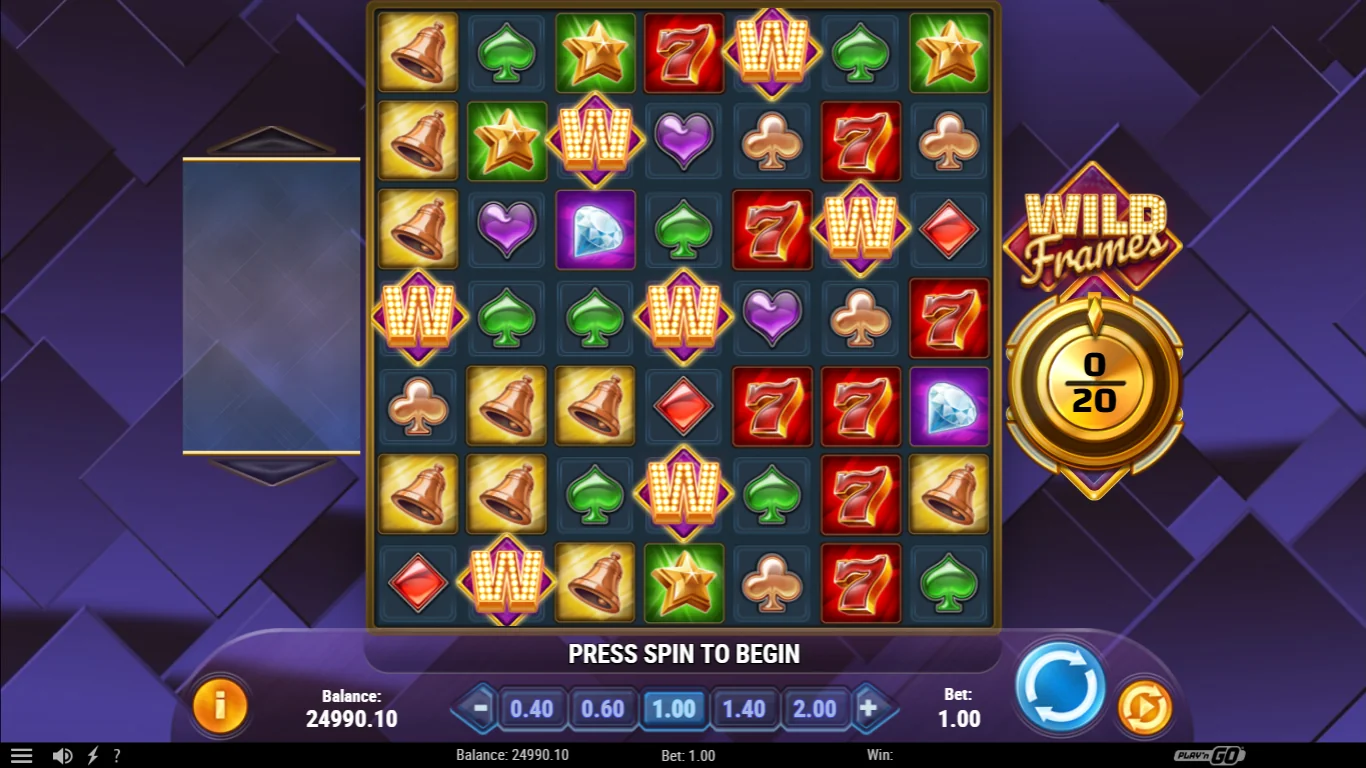
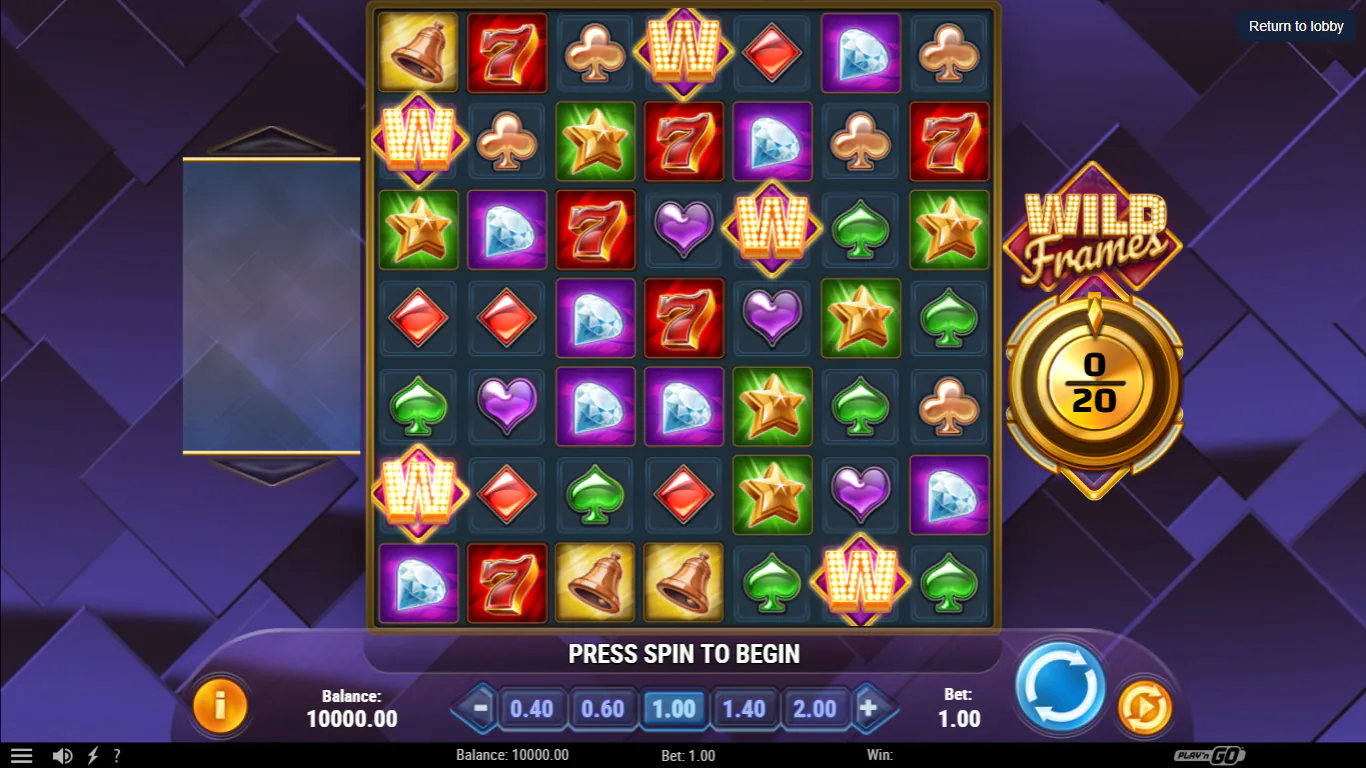
fix: on-brand link previews per language and a fresh Wild Frames capture
- Link previews use new per-language images (public/og/aurevia-gaming-
  {en,es,pt}.jpg, about 90 KB each) with the gold monogram, the homepage
  hero copy and the Wild Frames capture. The old orange "A" image with a
  retired tagline is removed. New URLs make chat apps fetch the new
  design instead of their cached preview. The image description is
  translated.
- The Wild Frames hero capture now shows a fresh 10000.00 balance, matching
  the 10,000-credit copy beside it; it showed 24990.10.
- scripts/capture-page.mjs captures a page at an exact viewport with local
  Chrome or Edge. assets/README.md records how both images are made, and
  that a demo capture can hold one of the two public demo seats for up to
  30 minutes.
- Release verification checks the HSTS and page cache headers and the new
  preview images.

diff --git a/assets/source/opengraph-image.html b/assets/source/opengraph-image.html
@@ -1,0 +1,64 @@
+<!doctype html>
+<html lang="en">
+<head>
+  <meta charset="utf-8">
+  <title>Aurevia Gaming link preview</title>
+  <!-- Source for public/og/aurevia-gaming-{en,es,pt}.jpg. ?lang=es|pt selects the copy,
+       which matches the homepage hero in src/content/site-content.ts and translations.ts. -->
+  <link rel="preconnect" href="https://fonts.googleapis.com">
+  <link rel="preconnect" href="https://fonts.gstatic.com" crossorigin>
+  <link href="https://fonts.googleapis.com/css2?family=Manrope:wght@600;800&family=Sora:wght@700&display=block" rel="stylesheet">
+  <style>
+    * { box-sizing: border-box; margin: 0; }
+    html, body { width: 1200px; height: 630px; overflow: hidden; }
+    body {
+      display: grid; grid-template-columns: minmax(0, 1fr) 500px; gap: 52px; align-items: center;
+      padding: 60px 64px 60px 72px; color: #f7f7f4; font-family: Manrope, sans-serif;
+      background:
+        radial-gradient(circle at 90% -10%, rgb(212 175 55 / .2), transparent 520px),
+        radial-gradient(circle at -5% 105%, rgb(212 175 55 / .1), transparent 420px),
+        #07090c;
+      -webkit-font-smoothing: antialiased;
+    }
+    .brand { display: flex; align-items: center; gap: 14px; color: #d4af37; font: 700 21px/1 Sora, sans-serif; letter-spacing: .02em; text-transform: uppercase; }
+    .brand svg { width: 50px; height: 47px; flex: none; }
+    .eyebrow { display: inline-flex; margin-top: 40px; padding: 10px 20px; border: 1px solid rgb(212 175 55 / .4); border-radius: 999px; background: rgb(255 255 255 / .04); color: #d4af37; font: 800 15px/1 Manrope, sans-serif; letter-spacing: .06em; text-transform: uppercase; }
+    h1 { margin-top: 24px; font: 700 64px/1.04 Sora, sans-serif; letter-spacing: -.035em; }
+    h1 span { display: block; color: #d4af37; }
+    ul { display: flex; flex-wrap: wrap; gap: 10px 26px; margin-top: 36px; padding: 0; list-style: none; color: #d4af37; font: 800 14px/1.2 Manrope, sans-serif; letter-spacing: .05em; text-transform: uppercase; }
+    figure { overflow: hidden; border: 1px solid rgb(212 175 55 / .45); border-radius: 22px; background: #11161f; box-shadow: 0 30px 80px rgb(0 0 0 / .55); }
+    figure img { display: block; width: 100%; height: auto; }
+    figcaption { padding: 14px 18px; color: #a6abb6; font: 600 14px/1.3 Manrope, sans-serif; }
+  </style>
+</head>
+<body>
+  <main>
+    <p class="brand">
+      <svg viewBox="50 8 330 308" aria-hidden="true"><path fill="currentColor" d="M223 20 108 261c-10 18-26 33-45 39 19 6 39 4 58-2 21-7 43-22 66-42 15 25 38 44 65 47 26 2 72 1 114 1l-37-74h-65l13 24h29l12 25h-58c-19 0-36-15-46-36 31-22 65-38 97-41 15-1 29 0 40 2-19-11-38-19-52-21-23-4-43 1-69 9-33 11-65 36-85 56-8 7-16 12-24 13 16-10 30-26 41-45 14-25 40-77 61-122l37 73 37 2-9-18L223 20Z"/></svg>
+      Aurevia Gaming
+    </p>
+    <p class="eyebrow" data-copy="eyebrow">Casino-tech studio</p>
+    <h1><span data-copy="title" style="color:inherit">Casino games</span><span data-copy="highlight">connected.</span></h1>
+    <ul data-copy="details"></ul>
+  </main>
+  <figure>
+    <img src="../../public/media/games/wildframes-gameplay.webp" alt="">
+    <figcaption data-copy="caption">Play’n GO · Wild Frames sandbox capture</figcaption>
+  </figure>
+  <script>
+    const copy = {
+      en: { eyebrow: "Casino-tech studio", title: "Casino games", highlight: "connected.", details: ["9 prepared games", "Wallet API", "Admin analytics"], caption: "Play’n GO · Wild Frames sandbox capture" },
+      es: { eyebrow: "Estudio de tecnología para casinos", title: "Juegos de casino", highlight: "conectados.", details: ["9 juegos disponibles", "API de monedero", "Análisis administrativo"], caption: "Play’n GO · Captura de Wild Frames en sandbox" },
+      pt: { eyebrow: "Estúdio de tecnologia para cassinos", title: "Jogos de cassino", highlight: "conectados.", details: ["9 jogos disponíveis", "API de carteira", "Análise administrativa"], caption: "Play’n GO · Captura do Wild Frames em sandbox" },
+    };
+    const lang = new URLSearchParams(location.search).get("lang");
+    const text = copy[lang] ?? copy.en;
+    document.documentElement.lang = copy[lang] ? lang : "en";
+    for (const element of document.querySelectorAll("[data-copy]")) {
+      const value = text[element.dataset.copy];
+      if (Array.isArray(value)) element.replaceChildren(...value.map((item) => Object.assign(document.createElement("li"), { textContent: item })));
+      else element.textContent = value;
+    }
+  </script>
+</body>
+</html>

diff --git a/src/content/translations.ts b/src/content/translations.ts
@@ -368,6 +368,7 @@ export const translations: Record<string, readonly [string, string]> = {
   "Open the full-size admin analytics design preview (sample data, new tab)": ["Abrir vista previa del panel a tamaño completo (datos de ejemplo, nueva pestaña)", "Abrir prévia do painel em tamanho completo (dados ilustrativos, nova aba)"],
   "Sending…": ["Enviando…", "Enviando…"],
   "Human verification is temporarily unavailable.": ["La verificación humana no está disponible temporalmente.", "A verificação humana está temporariamente indisponível."],
+  "Aurevia Gaming casino game and platform development": ["Desarrollo de juegos y plataformas de casino de Aurevia Gaming", "Desenvolvimento de jogos e plataformas de cassino da Aurevia Gaming"],
   "Protected by Cloudflare Turnstile.": ["Protegido por Cloudflare Turnstile.", "Protegido pelo Cloudflare Turnstile."],
   "Preview client access, game activity and service health in both themes. The authenticated workspace adds settled reports, transaction history and audited management controls. This preview uses illustrative data.": ["Consulta el acceso de clientes, la actividad de juegos y el estado del servicio en ambos temas. El área autenticada añade informes liquidados, historial de transacciones y controles de gestión auditados. Esta vista previa usa datos ilustrativos.", "Veja o acesso de clientes, a atividade dos jogos e o estado do serviço nos dois temas. A área autenticada oferece relatórios liquidados, histórico de transações e controles de gestão auditados. Esta prévia usa dados ilustrativos."],
 };

diff --git a/src/lib/metadata.ts b/src/lib/metadata.ts
@@ -1,5 +1,6 @@
 import type { Metadata, Viewport } from "next";
 
+import { translate } from "@/content/localized-content";
 import { siteContent } from "@/content/site-content";
 import { locales, localizedPath, type Locale } from "@/lib/i18n";
 import type { SeoEntry } from "@/types/content";
@@ -24,12 +25,14 @@ export const siteViewport: Viewport = {
   themeColor: [{ media: "(prefers-color-scheme: light)", color: "#faf9f6" }, { media: "(prefers-color-scheme: dark)", color: "#07090c" }],
 };
 
-const openGraphImage = {
-  url: "/opengraph-image.png",
+// Rendered from assets/source/opengraph-image.html (assets/README.md). Use a new
+// file name when the design changes: chat apps cache previews by image URL.
+const openGraphImage = (locale: Locale) => ({
+  url: `/og/aurevia-gaming-${locale}.jpg`,
   width: 1200,
   height: 630,
-  alt: "Aurevia Gaming casino game and platform development"
-};
+  alt: translate("Aurevia Gaming casino game and platform development", locale)
+});
 
 export function createPageMetadata(entry: SeoEntry, locale: Locale = "en"): Metadata {
   return {
@@ -50,13 +53,13 @@ export function createPageMetadata(entry: SeoEntry, locale: Locale = "en"): Meta
       siteName: siteContent.brand.name,
       title: entry.title,
       description: entry.description,
-      images: [openGraphImage]
+      images: [openGraphImage(locale)]
     },
     twitter: {
       card: "summary_large_image",
       title: entry.title,
       description: entry.description,
-      images: [openGraphImage.url]
+      images: [openGraphImage(locale).url]
     }
   };
 }

diff --git a/assets/README.md b/assets/README.md
@@ -6,7 +6,17 @@
 
 The catalog follows the nine-game integration release 1.0.1 manifest. Original Honey Rush (`honeyrush`, game ID 375) uses its matching panel; it is not the Black and Yellow sequel. Play’n GO remains the identified game provider. These are integration examples, not claims that Aurevia created the games or their artwork.
 
-The 1366×768 Wild Frames and Moon Princess gameplay images were exported as WebP from the prepared project’s `output/provider-ui-click-audit/{game}/before-spin.png` captures. Their displayed balances are simulated sandbox balances. The catalog preview is a browser capture of the updated website’s game library.
+The 1366×768 Moon Princess gameplay image was exported as WebP from the prepared project’s `output/provider-ui-click-audit/moonprincess/before-spin.png` capture. Its displayed balance is a simulated sandbox balance. The catalog preview is a browser capture of the updated website’s game library.
+
+The Wild Frames gameplay image is a capture of the public demo with a fresh 10,000-credit balance, matching the copy beside it. Each capture launches a real demo session, and the headless browser does not reliably release it: the session keeps one of the public demo's seats until the backend's 30-minute idle timeout. Capture at a quiet time, and only once. To reproduce it, run:
+
+```bash
+node scripts/capture-page.mjs https://aureviagaming.com/en/demo/wildframes wildframes-gameplay.png 1366x768 --fill 'iframe[title$="Game demo"]' --wait 20 --click 683,640 --click 683,640
+WEBP_QUALITY=82 IMAGE_MAX_WIDTH=1920 npm run images:optimize -- <folder with the PNG> public/media/games
+npm run images:version
+```
+
+The two clicks dismiss the game’s feature-preview screen; the first only unlocks audio. Check the result before committing: it must show the game grid, “PRESS SPIN TO BEGIN” and a 10000.00 balance.
 
 ## Admin analytics screenshot
 
@@ -22,3 +32,15 @@ To reproduce it:
 4. Encode as WebP and save to `public/media/platforms/admin-analytics-preview.webp`. Update `src/content/platform-preview.ts` if the dimensions change.
 
 The source HTML is outside `public/`, so it is not shipped as a public admin route. The marketing pages use the optimized screenshot and a visible sample-data caption. They offer a full-size view for readability on smaller screens.
+
+## Link-preview images
+
+`public/og/aurevia-gaming-{en,es,pt}.jpg` are the Open Graph and X images for each language. The source is `source/opengraph-image.html`; `?lang=es` or `?lang=pt` selects the copy, which follows the homepage hero. It loads Sora and Manrope from Google Fonts and the Wild Frames capture from `public/media/games/`. Render all three with:
+
+```bash
+for lang in en es pt; do
+  node scripts/capture-page.mjs "file://$PWD/assets/source/opengraph-image.html?lang=$lang" "public/og/aurevia-gaming-$lang.jpg" 1200x630
+done
+```
+
+Keep each file under about 300 KB, which WhatsApp needs for a preview. Chat apps cache previews by image URL, so give the files new names when the design changes and update `src/lib/metadata.ts`.

diff --git a/FIGMA-ASSET-MAP.md b/FIGMA-ASSET-MAP.md
@@ -5,8 +5,8 @@ Game previews use real Play’n GO artwork and gameplay captures from the prepar
 | Placement | Active asset |
 | --- | --- |
 | Header and footer monogram | `src/components/brand-logo.tsx` |
-| Favicon and manifest icon | `public/logo.svg` |
-| Social sharing preview | `public/opengraph-image.png` |
+| Favicon and manifest icons | `public/logo.svg`, rendered to `public/favicon.ico`, `public/apple-touch-icon.png` and `public/icon-*.png` |
+| Social sharing preview | `public/og/aurevia-gaming-{en,es,pt}.jpg`, from `assets/source/opengraph-image.html` |
 | Home and games hero; slot service | `public/media/games/wildframes-gameplay.webp` |
 | Home and games catalog cards | `public/media/games/{game-id}.webp` |
 | Web/mobile service | `public/media/games/moonprincess-gameplay.webp` |
